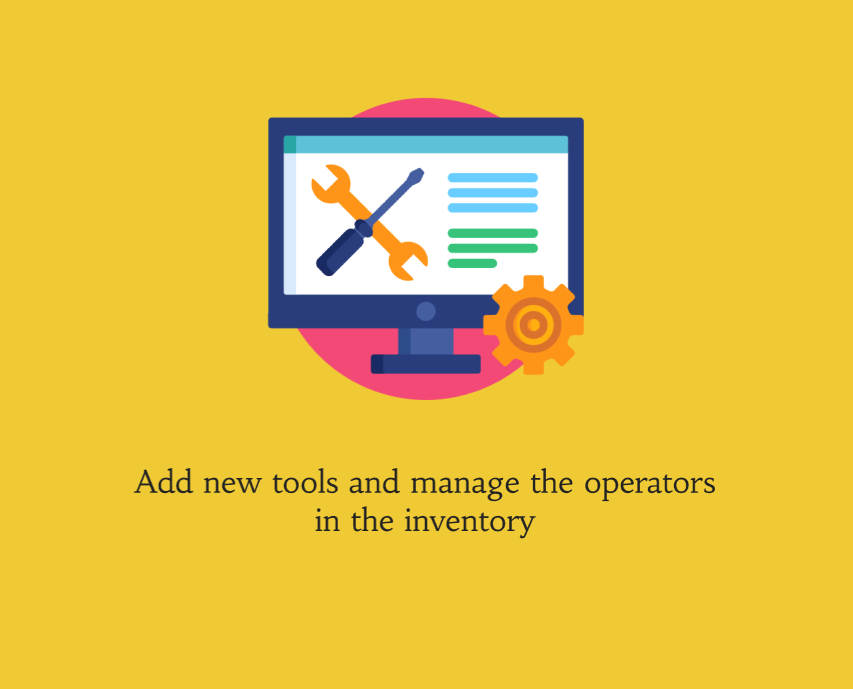
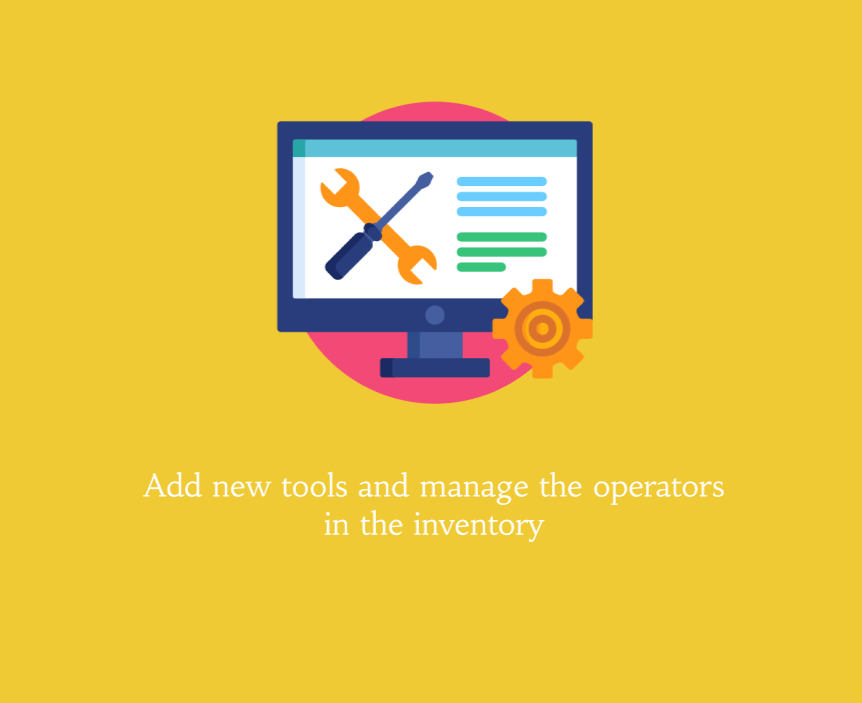
changed ui

Changed region(s): [[0.3048, 0.1219, 0.7011, 0.5791], [0.1524, 0.6705, 0.8535, 0.7925]]

diff --git a/src/layout/navbarManager.jsx b/src/layout/navbarManager.jsx
@@ -154,7 +154,7 @@ export default function NavbarManager(props) {
 
                 <button
                   type="submit"
-                  class="nav-link btn navi mx-1 my-4 text-white"
+                  class="nav-link btn navi mx-1 my-4 text-black"
                   onClick={changeStateTool}
                 >
                   <ConstructionIcon />
@@ -168,7 +168,7 @@ export default function NavbarManager(props) {
 
                 <button
                   type="submit"
-                  class="nav-link btn navi mx-1 my-4 text-white"
+                  class="nav-link btn navi mx-1 my-4 text-black"
                   onClick={changeStateLedger}
                 >
                   <BookIcon />
@@ -182,7 +182,7 @@ export default function NavbarManager(props) {
 
                 <button
                   type="submit"
-                  class="nav-link btn navi mx-1 my-4 text-white"
+                  class="nav-link btn navi mx-1 my-4 text-black"
                   onClick={changeStateOperator}
                 >
                   <PersonIcon />
@@ -197,7 +197,7 @@ export default function NavbarManager(props) {
 
                 <button
                   type="submit"
-                  class="nav-link btn navi mx-1 my-4 text-white"
+                  class="nav-link btn navi mx-1 my-4 text-black"
                   onClick={changeStatehome}
                 >
                   <HomeRepairServiceIcon />
@@ -208,7 +208,7 @@ export default function NavbarManager(props) {
               <li class="nav-item">
                 <button
                   type="submit"
-                  class="nav-link btn navi mx-1 my-4 text-white"
+                  class="nav-link btn navi mx-1 my-4 text-black"
                   onClick={changeStatetooltype}
                 >
                   <b class="navbutton">Tool Type</b>
@@ -233,7 +233,7 @@ export default function NavbarManager(props) {
               <li class="nav-item">
                 <button
                   type="submit"
-                  class="nav-link btn navi text-white"
+                  class="nav-link btn navi text-black"
                   onClick={notifyLogoutManager}
                 >
                   <LogoutIcon />

diff --git a/src/layout/navbarOperator.jsx b/src/layout/navbarOperator.jsx
@@ -78,7 +78,7 @@ export default function NavbarOperator(props) {
               <li class="nav-item active">
                 <button
                   type="submit"
-                  class="nav-link btn navi mx-1 my-4 text-white"
+                  class="nav-link btn navi mx-1 my-4 text-black"
                   onClick={changeStateReturn}
                 >
                   <HomeIcon />
@@ -89,7 +89,7 @@ export default function NavbarOperator(props) {
               <li class="nav-item">
                 <button
                   type="submit"
-                  class="nav-link btn navi mx-1 my-4 text-white"
+                  class="nav-link btn navi mx-1 my-4 text-black"
                   onClick={changeStateReturn}
                 >
                   <b class="navbutton">Return Tool</b>
@@ -99,7 +99,7 @@ export default function NavbarOperator(props) {
               <li class="nav-item">
                 <button
                   type="submit"
-                  class="nav-link btn navi mx-1 my-4 text-white"
+                  class="nav-link btn navi mx-1 my-4 text-black"
                   onClick={changeStateRequest}
                 >
                   <b class="navbutton">Request Tool</b>
@@ -116,7 +116,7 @@ export default function NavbarOperator(props) {
               <li class="nav-item">
                 <button
                   type="submit"
-                  class="nav-link btn navi text-white"
+                  class="nav-link btn navi text-black"
                   onClick={notifyLogoutAdmin}
                 >
                   <LogoutIcon />

diff --git a/src/layout/navbarAdmin.jsx b/src/layout/navbarAdmin.jsx
@@ -79,7 +79,7 @@ export default function Navbar(props) {
 
                     <button
                       type="submit"
-                      class="nav-link btn navi mx-1 my-4 text-white"
+                      class="nav-link btn navi mx-1 my-4 text-black"
                       onClick={changeStateAdmin}
                     >
                       <HomeIcon />
@@ -92,7 +92,7 @@ export default function Navbar(props) {
 
                     <button
                       type="submit"
-                      class="nav-link btn navi mx-1 my-4 text-white"
+                      class="nav-link btn navi mx-1 my-4 text-black"
                       onClick={changeStateAdmin}
                     >
                       <PersonIcon />
@@ -111,7 +111,7 @@ export default function Navbar(props) {
                   <li class="nav-item">
                     <button
                       type="submit"
-                      class="nav-link btn navi text-white"
+                      class="nav-link btn navi text-black"
                       onClick={notifyLogoutAdmin}
                     >
                       <LogoutIcon />

diff --git a/src/pages/Login.jsx b/src/pages/Login.jsx
@@ -17,7 +17,7 @@ const AppContainer = styled.div`
   padding: 60px;
   ${'' /* background-color: #EEE2DC; */}
   background-size:2500px 2500px;
-  background-image: url("https://media.istockphoto.com/id/1153938533/photo/abstract-blurred-blue-background-with-double-exposure-of-bokeh-circle-glitter-for-design.jpg?b=1&s=170667a&w=0&k=20&c=vX2x3Ds5VTDN0sARhTgcT7c5Ux1u63rs3-OKGyUgR6w=");
+  background-image: url("https://media.istockphoto.com/id/1372160671/photo/yellow-colored-abstract-textured-background-decorative-plaster-on-the-wall.jpg?s=612x612&w=0&k=20&c=rzd77MCzjwohR6w_Jdl_BmbmtuxW_Nx2lhMdpFb0xkQ=");
 `;
 
 function Login() {

diff --git a/src/pages/accountBox/common.jsx b/src/pages/accountBox/common.jsx
@@ -47,14 +47,14 @@ export const Input = styled.input`
   }
   &:focus {
     outline: none;
-    border-bottom: 2px solid #0652DD;
+    border-bottom: 2px solid rgb(240, 202, 53);
   }
 `;
 
 export const SubmitButton = styled.button`
   width: 100%;
   padding: 11px 40%;
-  color: black;
+  color: white;
   font-size: 20px;
   font-weight: 600;
   border: none;

diff --git a/src/layout/Cards.jsx b/src/layout/Cards.jsx
@@ -143,7 +143,7 @@ export default function Cards(props) {
           </p>
           <button
             type="submit"
-            class="btn navi  text-white"
+            class="btn navi  text-black"
             disabled={!available}
           >
             <b class="navbutton" onClick={changeStateRequestTool}>

diff --git a/src/pages/accountBox/index.jsx b/src/pages/accountBox/index.jsx
@@ -74,13 +74,13 @@ const HeaderText = styled.h2`
   font-size: 20px;
   font-weight: 600;
   line-height: 1.24;
-  color: black;
+  color: white;
   z-index: 10;
   margin: 0;
 `;
 
 const SmallText = styled.h5`
-  color: black;
+  color: white;
   font-weight: 500;
   font-size: 11px;
   z-index: 10;

diff --git a/src/pages/css/style.css b/src/pages/css/style.css
@@ -22,7 +22,7 @@ body{
 }
 
 .navi:hover{
-    background: black;
+    background: #ffffff;
 }
 
 .navbutton{
